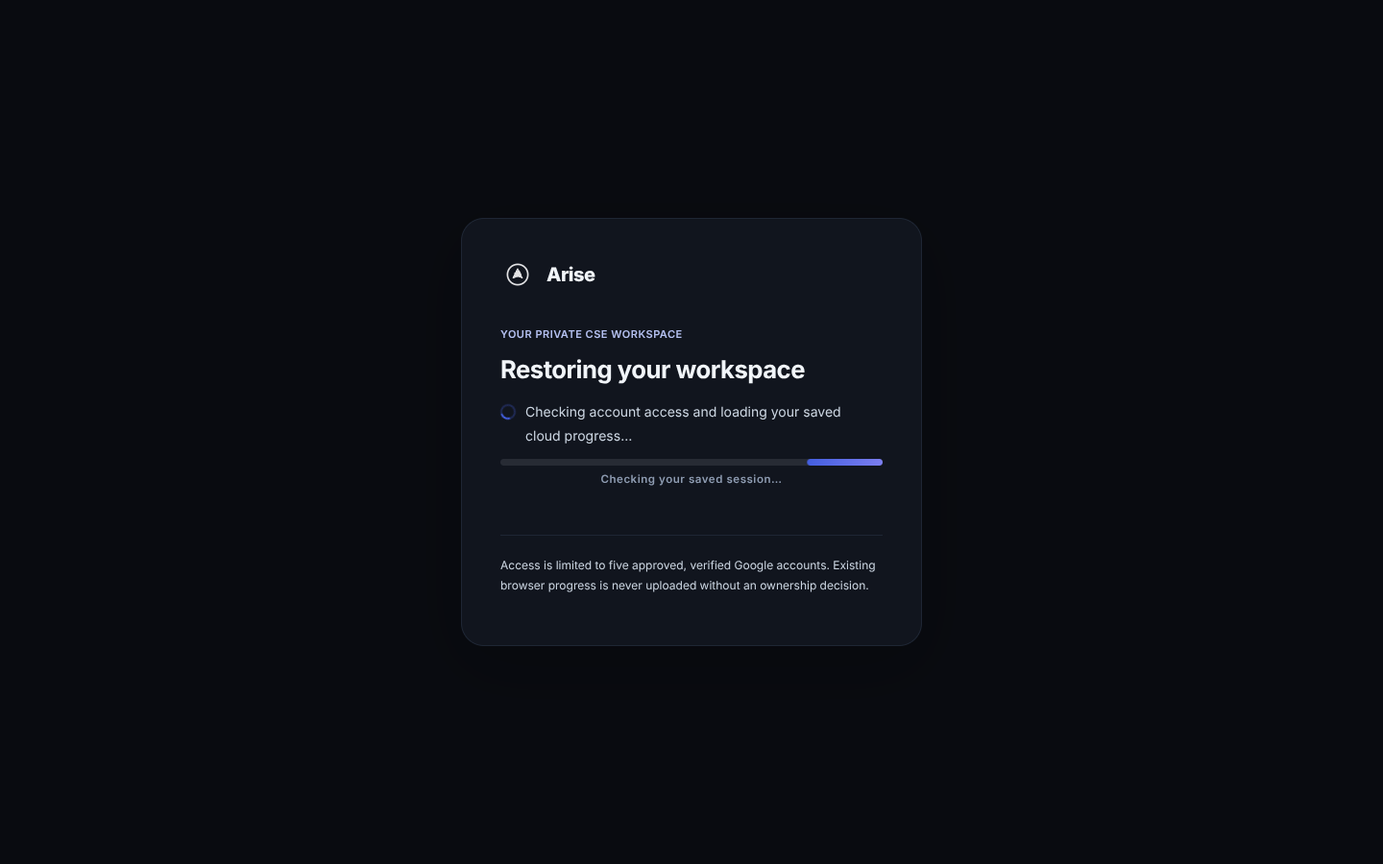
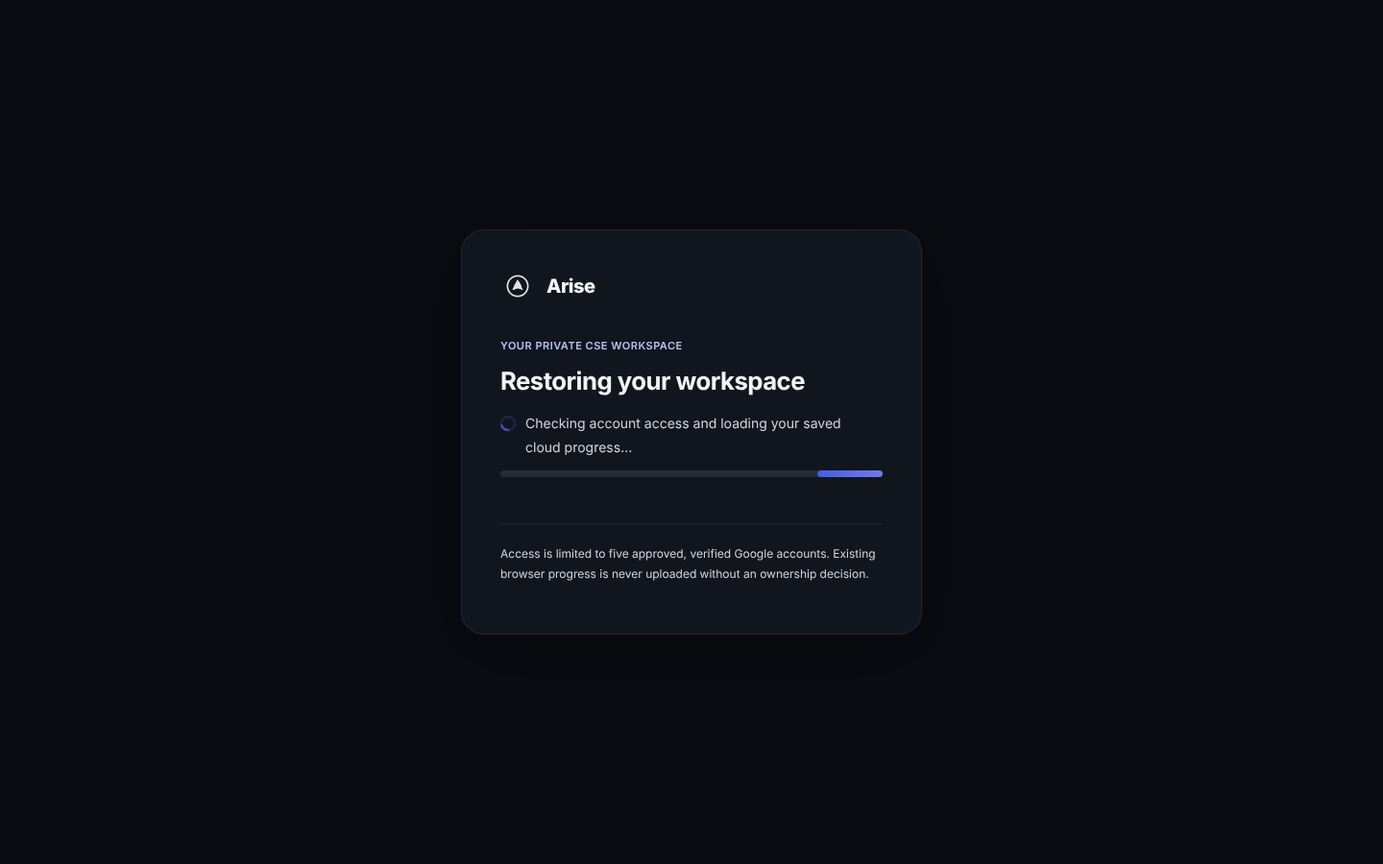
Loading polish: grouped announcements, skeleton progressbar semantics, cloud-sync progress
- Skeleton roots are role=progressbar + aria-label + aria-busy (not live regions);
  announceLoading() groups concurrent mounts into one announcement per 900ms window
- state('ready') clears a stale lone placeholder; index.html lazy mount uses mount()
- AriseLoading.cloudStatus() maps sync-engine statuses onto the shared indicator
  (real attachment fractions only, refcount-safe, clears synthetic creep timers)
- setIndeterminateBar() renders the v2 .ars-progress component with legacy fallback
- Rebuild chunks + SW shell (w01.a88c7ccc), refresh screenshots
- Docs: loading report updated (377 assertions), new Loading states section in
  ARISE-DESIGN-SYSTEM.md

Changed region(s): [[0.3438, 0.3733, 0.6562, 0.56], [0.3438, 0.6222, 0.625, 0.6844], [0.3438, 0.3111, 0.4375, 0.3422]]

diff --git a/service-worker.js b/service-worker.js
@@ -1,4 +1,4 @@
-const CACHE_NAME="arise-developer-system-v248-secure-cloud-loading-system",CORE_SHELL=["./styles/cloud-auth.css","./src/cloud/storage-schema.js","./src/cloud/storage-bridge.js","./assets/cloud-auth.js","./","./index.html","./manifest.webmanifest","./assets/app-bundle.js","./assets/fonts/inter-latin-wght-normal.woff2","./assets/app-styles.css","./styles/theme.css","./assets/responsive-patch.css","./styles/saas-upgrade.css","./src/saas-widget-enhancer.js","./styles/animation-upgrade.css","./src/animation-upgrade.js","./styles/loading-system.css","./src/loading-system.js","./styles/typography-upgrade.css","./styles/design-system.css","./src/readiness-scoring-config.js","./src/readiness-engine.js","./src/placement-engine.js","./src/xp-engine.js","./src/learning-heatmap-widget.js","./styles/features/exam-tracker/exam-tracker.css","./styles/features/exam-tracker/exam-tracker-analytics.css","./styles/features/exam-tracker/exam-tracker-dday.css","./assets/arise-logo.svg","./assets/arise-logo-32.png","./assets/arise-logo-192.webp","./assets/arise-logo-512.webp","./assets/arise-logo-192.png","./assets/arise-logo-512.png"],EXTENDED_SHELL=["./assets/chunks/w01.81ee74a1.js","./assets/chunks/w02.a89778ae.js","./assets/chunks/w03.73b2c2e0.js","./assets/chunks/w04.184d5eb3.js","./assets/chunks/w05.aba06fa4.js","./assets/chunks/w06.0b14ba51.js","./assets/chunks/w07.3def584e.js","./assets/chunks/w08.ea6aa31c.js","./assets/chunks/w09.60cffb01.js","./assets/chunks/w10.7b87fb7c.js","./assets/chunks/w11.d858d06b.js","./assets/chunks/w12.40743912.js","./assets/app-analytics.js","./assets/fonts/inter-latin-wght-normal.woff2","./assets/fonts/jetbrains-mono-latin-wght-normal.woff2","./assets/arise-logo-192.webp","./assets/arise-logo-512.webp","./src/mutation-bus.js","./src/storage-watch-bus.js","./src/storage-keys.js","./src/widget-shared-utils.js","./styles/widget-nav.css","./src/widget-nav.js","./src/mobile-nav-enhance.js","./src/theme-system.js","./styles/theme-quick-toggle.css","./src/theme-quick-toggle.js","./styles/premium-productivity-features.css","./src/premium-productivity-features.js","./src/readiness-50lpa-widget.js","./src/weekly-ai-report-widget.js","./src/xp-breakdown-widget.js","./src/attendance-tracker-widget.js","./src/cgpa-tracker-widget.js","./src/competitive-programming-widget.js","./src/problem-log-explorer-widget.js","./src/hackathon-tracker-widget.js","./src/hackathon-expense-tracker-widget.js","./src/hackathon-timeline-widget.js","./src/hackathon-pipeline-widget.js","./src/hackathon-team-directory-widget.js","./src/hackathon-prize-wall-widget.js","./src/hackathon-funnel-widget.js","./src/habit-heatmap-widget.js","./src/dev-mastery-heatmap-widget.js","./src/skills-timeline-widget.js","./src/notes-app-widget.js","./src/personal-wiki-widget.js","./src/burnout-detector-widget.js","./src/interview-sheets-widget.js","./assets/interview_sheets_data.json","./src/dsa-mastery-premium-widget.js","./src/dev-mastery-premium-widget.js","./src/dev-weekly-sparkline-widget.js","./src/dev-milestone-badges-widget.js","./src/dev-pace-projection-widget.js","./src/dev-difficulty-radar-widget.js","./src/dsa-topic-breakdown-widget.js","./src/dsa-pace-projection-widget.js","./src/dsa-streak-widget.js","./src/dsa-weekly-sparkline-widget.js","./src/dsa-mastery-trend-widget.js","./src/dsa-difficulty-radar-widget.js","./src/dsa-sheet-coverage-widget.js","./src/dsa-solve-speed-widget.js","./src/dsa-milestone-badges-widget.js","./src/dsa-revision-scheduler-widget.js","./src/dsa-problem-insights-widget.js","./src/dsa-tier3-readiness-widget.js","./src/dsa-placement-engine-widget.js","./src/dsa-daily-goal-widget.js","./src/dsa-mock-oa-widget.js","./src/dsa-pattern-playbook-widget.js","./src/dsa-proof-pack-widget.js","./src/dsa-mistake-journal-widget.js","./src/dsa-study-planner-widget.js","./src/aptitude-practice-widget.js","./src/dev-placement-engine-widget.js","./src/placement-command-center-widget.js","./src/dev-task-timestamps-widget.js","./src/dev-topic-breakdown-widget.js","./src/dev-streak-widget.js","./src/dev-roadmap-coverage-widget.js","./src/dev-solve-speed-widget.js","./src/dev-task-insights-widget.js","./src/dev-quality-trend-widget.js","./src/dev-portfolio-flags-widget.js","./src/dev-revision-scheduler-widget.js","./src/dev-mastery-trend-widget.js","./src/backup-center-widget.js","./src/local-files-widget.js","./src/projects-widget.js","./src/expenses.js","./src/battle-plan-widget.js","./src/focus-mode-widget.js","./src/focus-timer-upgrade-widget.js","./src/timer-visual-upgrade-widget.js","./src/water-reminder-widget.js","./src/mount-safety.js","./src/widget-reset.js","./src/revision-system-widget.js","./src/ai-smart-learning-path-widget.js","./src/learning-session-analytics-widget.js","./src/learning-mastery-correlation-widget.js","./src/ai-career-mentor-widget.js","./src/ai-connect-shared.js","./src/ai-real-insights-widget.js","./src/career-command-center-widget.js","./src/readiness-path-planner-widget.js","./src/social-media-widget.js","./styles/features/placement-tracker/placement-tracker.css","./src/features/placement-tracker/placement-calculations.js","./src/features/placement-tracker/placement-storage.js","./src/features/placement-tracker/placement-tracker.js","./src/features/placement-tracker/placement-tracker-new-features.js","./src/features/cse-placement-critical/cse-placement-critical-config.js","./src/features/semester-risk/cse-full-syllabus-config.js","./src/features/semester-risk/cse-syllabus-plus-widget.js","./src/features/semester-risk/cse-syllabus-plus-v144-patch.js","./src/features/semester-risk/cse-syllabus-tabs-v150-patch.js","./src/features/semester-risk/cse-syllabus-unified-widget.js","./styles/features/certificates/certificates.css","./src/features/certificates/certificates-storage.js","./src/features/certificates/certificates-widget.js","./assets/sounds/rain.mp3","./assets/sounds/moody.mp3","./assets/sounds/relaxing.mp3","./assets/sounds/calming.mp3","./assets/sounds/forest.mp3","./assets/sounds/wind.mp3","./assets/sounds/night.mp3"];
+const CACHE_NAME="arise-developer-system-v248-secure-cloud-loading-system",CORE_SHELL=["./styles/cloud-auth.css","./src/cloud/storage-schema.js","./src/cloud/storage-bridge.js","./assets/cloud-auth.js","./","./index.html","./manifest.webmanifest","./assets/app-bundle.js","./assets/fonts/inter-latin-wght-normal.woff2","./assets/app-styles.css","./styles/theme.css","./assets/responsive-patch.css","./styles/saas-upgrade.css","./src/saas-widget-enhancer.js","./styles/animation-upgrade.css","./src/animation-upgrade.js","./styles/loading-system.css","./src/loading-system.js","./styles/typography-upgrade.css","./styles/design-system.css","./src/readiness-scoring-config.js","./src/readiness-engine.js","./src/placement-engine.js","./src/xp-engine.js","./src/learning-heatmap-widget.js","./styles/features/exam-tracker/exam-tracker.css","./styles/features/exam-tracker/exam-tracker-analytics.css","./styles/features/exam-tracker/exam-tracker-dday.css","./assets/arise-logo.svg","./assets/arise-logo-32.png","./assets/arise-logo-192.webp","./assets/arise-logo-512.webp","./assets/arise-logo-192.png","./assets/arise-logo-512.png"],EXTENDED_SHELL=["./assets/chunks/w01.a88c7ccc.js","./assets/chunks/w02.a89778ae.js","./assets/chunks/w03.73b2c2e0.js","./assets/chunks/w04.184d5eb3.js","./assets/chunks/w05.aba06fa4.js","./assets/chunks/w06.0b14ba51.js","./assets/chunks/w07.3def584e.js","./assets/chunks/w08.ea6aa31c.js","./assets/chunks/w09.60cffb01.js","./assets/chunks/w10.7b87fb7c.js","./assets/chunks/w11.d858d06b.js","./assets/chunks/w12.40743912.js","./assets/app-analytics.js","./assets/fonts/inter-latin-wght-normal.woff2","./assets/fonts/jetbrains-mono-latin-wght-normal.woff2","./assets/arise-logo-192.webp","./assets/arise-logo-512.webp","./src/mutation-bus.js","./src/storage-watch-bus.js","./src/storage-keys.js","./src/widget-shared-utils.js","./styles/widget-nav.css","./src/widget-nav.js","./src/mobile-nav-enhance.js","./src/theme-system.js","./styles/theme-quick-toggle.css","./src/theme-quick-toggle.js","./styles/premium-productivity-features.css","./src/premium-productivity-features.js","./src/readiness-50lpa-widget.js","./src/weekly-ai-report-widget.js","./src/xp-breakdown-widget.js","./src/attendance-tracker-widget.js","./src/cgpa-tracker-widget.js","./src/competitive-programming-widget.js","./src/problem-log-explorer-widget.js","./src/hackathon-tracker-widget.js","./src/hackathon-expense-tracker-widget.js","./src/hackathon-timeline-widget.js","./src/hackathon-pipeline-widget.js","./src/hackathon-team-directory-widget.js","./src/hackathon-prize-wall-widget.js","./src/hackathon-funnel-widget.js","./src/habit-heatmap-widget.js","./src/dev-mastery-heatmap-widget.js","./src/skills-timeline-widget.js","./src/notes-app-widget.js","./src/personal-wiki-widget.js","./src/burnout-detector-widget.js","./src/interview-sheets-widget.js","./assets/interview_sheets_data.json","./src/dsa-mastery-premium-widget.js","./src/dev-mastery-premium-widget.js","./src/dev-weekly-sparkline-widget.js","./src/dev-milestone-badges-widget.js","./src/dev-pace-projection-widget.js","./src/dev-difficulty-radar-widget.js","./src/dsa-topic-breakdown-widget.js","./src/dsa-pace-projection-widget.js","./src/dsa-streak-widget.js","./src/dsa-weekly-sparkline-widget.js","./src/dsa-mastery-trend-widget.js","./src/dsa-difficulty-radar-widget.js","./src/dsa-sheet-coverage-widget.js","./src/dsa-solve-speed-widget.js","./src/dsa-milestone-badges-widget.js","./src/dsa-revision-scheduler-widget.js","./src/dsa-problem-insights-widget.js","./src/dsa-tier3-readiness-widget.js","./src/dsa-placement-engine-widget.js","./src/dsa-daily-goal-widget.js","./src/dsa-mock-oa-widget.js","./src/dsa-pattern-playbook-widget.js","./src/dsa-proof-pack-widget.js","./src/dsa-mistake-journal-widget.js","./src/dsa-study-planner-widget.js","./src/aptitude-practice-widget.js","./src/dev-placement-engine-widget.js","./src/placement-command-center-widget.js","./src/dev-task-timestamps-widget.js","./src/dev-topic-breakdown-widget.js","./src/dev-streak-widget.js","./src/dev-roadmap-coverage-widget.js","./src/dev-solve-speed-widget.js","./src/dev-task-insights-widget.js","./src/dev-quality-trend-widget.js","./src/dev-portfolio-flags-widget.js","./src/dev-revision-scheduler-widget.js","./src/dev-mastery-trend-widget.js","./src/backup-center-widget.js","./src/local-files-widget.js","./src/projects-widget.js","./src/expenses.js","./src/battle-plan-widget.js","./src/focus-mode-widget.js","./src/focus-timer-upgrade-widget.js","./src/timer-visual-upgrade-widget.js","./src/water-reminder-widget.js","./src/mount-safety.js","./src/widget-reset.js","./src/revision-system-widget.js","./src/ai-smart-learning-path-widget.js","./src/learning-session-analytics-widget.js","./src/learning-mastery-correlation-widget.js","./src/ai-career-mentor-widget.js","./src/ai-connect-shared.js","./src/ai-real-insights-widget.js","./src/career-command-center-widget.js","./src/readiness-path-planner-widget.js","./src/social-media-widget.js","./styles/features/placement-tracker/placement-tracker.css","./src/features/placement-tracker/placement-calculations.js","./src/features/placement-tracker/placement-storage.js","./src/features/placement-tracker/placement-tracker.js","./src/features/placement-tracker/placement-tracker-new-features.js","./src/features/cse-placement-critical/cse-placement-critical-config.js","./src/features/semester-risk/cse-full-syllabus-config.js","./src/features/semester-risk/cse-syllabus-plus-widget.js","./src/features/semester-risk/cse-syllabus-plus-v144-patch.js","./src/features/semester-risk/cse-syllabus-tabs-v150-patch.js","./src/features/semester-risk/cse-syllabus-unified-widget.js","./styles/features/certificates/certificates.css","./src/features/certificates/certificates-storage.js","./src/features/certificates/certificates-widget.js","./assets/sounds/rain.mp3","./assets/sounds/moody.mp3","./assets/sounds/relaxing.mp3","./assets/sounds/calming.mp3","./assets/sounds/forest.mp3","./assets/sounds/wind.mp3","./assets/sounds/night.mp3"];
 // scripts/build.mjs appends a deterministic public-content digest to CACHE_NAME.
 // Keep the existing core, ordered widget sources, sounds and CP sync contracts.
 const CACHE_PREFIX = 'arise-developer-system-';

diff --git a/index.html b/index.html
@@ -132,10 +132,12 @@
           var kind = MOUNT_SHAPES[name] || (isFullSection ? 'dashboard' : 'widget');
           el.setAttribute('aria-busy', 'true');
           if (loading && typeof loading.skeleton === 'function') {
-            el.innerHTML = loading.skeleton(kind, {
+            var mountOpts = {
               label: 'Loading ' + label + '…',
               height: isFullSection ? '280px' : null
-            });
+            };
+            if (typeof loading.mount === 'function') loading.mount(el, kind, mountOpts);
+            else el.innerHTML = loading.skeleton(kind, mountOpts);
             el.firstElementChild.setAttribute('data-arise-skeleton', '1');
           } else if (system && typeof system.renderSkeleton === 'function') {
             var legacy = { dashboard: 'dashboard', table: 'table', list: 'list', form: 'form', widget: 'widget' };
@@ -1025,7 +1027,7 @@ window.AriseBoot.ready.then(function () {
     ];
     /*CHUNKS:START*/
     var CHUNKS = [
-      "./assets/chunks/w01.81ee74a1.js",
+      "./assets/chunks/w01.a88c7ccc.js",
       "./assets/chunks/w02.a89778ae.js",
       "./assets/chunks/w03.73b2c2e0.js",
       "./assets/chunks/w04.184d5eb3.js",
@@ -1038,7 +1040,7 @@ window.AriseBoot.ready.then(function () {
       "./assets/chunks/w11.d858d06b.js",
       "./assets/chunks/w12.40743912.js"
     ];
-    var CHUNK_FILES = {"./assets/chunks/w01.81ee74a1.js":["./src/mutation-bus.js","./src/storage-watch-bus.js","./src/storage-keys.js","./src/widget-shared-utils.js","./src/widget-nav.js","./src/mobile-nav-enhance.js","./src/dev-task-timestamps-widget.js","./src/theme-system.js","./src/theme-quick-toggle.js","./src/premium-productivity-features.js","./src/saas-widget-enhancer.js","./src/habit-heatmap-widget.js","./src/burnout-detector-widget.js","./src/xp-breakdown-widget.js","./src/features/exam-tracker/exam-tracker-calculations.js","./src/features/exam-tracker/exam-tracker-intelligence.js","./src/features/exam-tracker/exam-tracker-storage.js","./src/features/exam-tracker/exam-tracker-dday.js"],"./assets/chunks/w02.a89778ae.js":["./src/features/exam-tracker/exam-tracker.js","./src/features/exam-tracker/exam-tracker-analytics-widget.js","./src/readiness-50lpa-widget.js","./src/career-command-center-widget.js","./src/readiness-path-planner-widget.js","./src/battle-plan-widget.js","./src/ai-smart-learning-path-widget.js","./src/revision-system-widget.js","./src/water-reminder-widget.js","./src/focus-mode-widget.js","./src/focus-timer-upgrade-widget.js","./src/timer-visual-upgrade-widget.js","./src/learning-session-analytics-widget.js","./src/learning-mastery-correlation-widget.js"],"./assets/chunks/w03.73b2c2e0.js":["./src/weekly-ai-report-widget.js","./src/ai-career-mentor-widget.js","./src/ai-connect-shared.js","./src/ai-real-insights-widget.js","./src/mount-safety.js","./src/widget-reset.js","./src/a11y-toast-patch.js","./src/a11y-color-patch.js","./src/a11y-label-patch.js","./src/widget-failure-reporter.js","./src/attendance-tracker-widget.js"],"./assets/chunks/w04.184d5eb3.js":["./src/competitive-programming-widget.js","./src/social-media-widget.js","./src/problem-log-explorer-widget.js"],"./assets/chunks/w05.aba06fa4.js":["./src/hackathon-tracker-widget.js","./src/hackathon-expense-tracker-widget.js","./src/hackathon-timeline-widget.js","./src/hackathon-pipeline-widget.js","./src/hackathon-team-directory-widget.js","./src/hackathon-prize-wall-widget.js","./src/hackathon-funnel-widget.js","./src/dev-mastery-heatmap-widget.js","./src/dev-weekly-sparkline-widget.js","./src/dev-milestone-badges-widget.js","./src/dev-pace-projection-widget.js","./src/dev-difficulty-radar-widget.js"],"./assets/chunks/w06.0b14ba51.js":["./src/skills-timeline-widget.js","./src/notes-app-widget.js","./src/personal-wiki-widget.js","./src/interview-sheets-widget.js","./src/dsa-mastery-premium-widget.js"],"./assets/chunks/w07.3def584e.js":["./src/dev-mastery-premium-widget.js","./src/dev-mastery-trend-widget.js","./src/dev-topic-breakdown-widget.js","./src/dev-streak-widget.js","./src/dev-roadmap-coverage-widget.js","./src/dev-solve-speed-widget.js","./src/dsa-topic-breakdown-widget.js","./src/dsa-pace-projection-widget.js","./src/dsa-streak-widget.js","./src/dsa-weekly-sparkline-widget.js","./src/dsa-mastery-trend-widget.js","./src/dsa-difficulty-radar-widget.js","./src/dsa-sheet-coverage-widget.js","./src/dsa-solve-speed-widget.js","./src/dsa-milestone-badges-widget.js","./src/dsa-revision-scheduler-widget.js","./src/dsa-problem-insights-widget.js","./src/dsa-tier3-readiness-widget.js","./src/dsa-placement-engine-widget.js","./src/dsa-daily-goal-widget.js","./src/dsa-mock-oa-widget.js","./src/dsa-pattern-playbook-widget.js","./src/dsa-proof-pack-widget.js","./src/dsa-mistake-journal-widget.js"],"./assets/chunks/w08.ea6aa31c.js":["./src/dsa-study-planner-widget.js","./src/aptitude-practice-widget.js","./src/dev-placement-engine-widget.js","./src/placement-command-center-widget.js","./src/dev-task-insights-widget.js","./src/dev-quality-trend-widget.js","./src/dev-portfolio-flags-widget.js","./src/dev-revision-scheduler-widget.js","./src/backup-center-widget.js","./src/features/placement-tracker/placement-calculations.js","./src/features/placement-tracker/placement-storage.js","./src/features/placement-tracker/placement-tracker.js","./src/features/placement-tracker/placement-tracker-new-features.js","./src/features/cse-placement-critical/cse-placement-critical-config.js","./src/features/semester-risk/cse-full-syllabus-config.js"],"./assets/chunks/w09.60cffb01.js":["./src/features/semester-risk/cse-syllabus-plus-widget.js","./src/features/semester-risk/cse-syllabus-plus-v144-patch.js","./src/features/semester-risk/cse-syllabus-tabs-v150-patch.js","./src/features/semester-risk/cse-syllabus-unified-widget.js"],"./assets/chunks/w10.7b87fb7c.js":["./src/local-files-widget.js","./src/projects-widget.js"],"./assets/chunks/w11.d858d06b.js":["./src/expenses.js"],"./assets/chunks/w12.40743912.js":["./src/cgpa-tracker-widget.js","./src/features/certificates/certificates-storage.js","./src/features/certificates/certificates-widget.js","./src/career-intelligence-dashboard.js"]};
+    var CHUNK_FILES = {"./assets/chunks/w01.a88c7ccc.js":["./src/mutation-bus.js","./src/storage-watch-bus.js","./src/storage-keys.js","./src/widget-shared-utils.js","./src/widget-nav.js","./src/mobile-nav-enhance.js","./src/dev-task-timestamps-widget.js","./src/theme-system.js","./src/theme-quick-toggle.js","./src/premium-productivity-features.js","./src/saas-widget-enhancer.js","./src/habit-heatmap-widget.js","./src/burnout-detector-widget.js","./src/xp-breakdown-widget.js","./src/features/exam-tracker/exam-tracker-calculations.js","./src/features/exam-tracker/exam-tracker-intelligence.js","./src/features/exam-tracker/exam-tracker-storage.js","./src/features/exam-tracker/exam-tracker-dday.js"],"./assets/chunks/w02.a89778ae.js":["./src/features/exam-tracker/exam-tracker.js","./src/features/exam-tracker/exam-tracker-analytics-widget.js","./src/readiness-50lpa-widget.js","./src/career-command-center-widget.js","./src/readiness-path-planner-widget.js","./src/battle-plan-widget.js","./src/ai-smart-learning-path-widget.js","./src/revision-system-widget.js","./src/water-reminder-widget.js","./src/focus-mode-widget.js","./src/focus-timer-upgrade-widget.js","./src/timer-visual-upgrade-widget.js","./src/learning-session-analytics-widget.js","./src/learning-mastery-correlation-widget.js"],"./assets/chunks/w03.73b2c2e0.js":["./src/weekly-ai-report-widget.js","./src/ai-career-mentor-widget.js","./src/ai-connect-shared.js","./src/ai-real-insights-widget.js","./src/mount-safety.js","./src/widget-reset.js","./src/a11y-toast-patch.js","./src/a11y-color-patch.js","./src/a11y-label-patch.js","./src/widget-failure-reporter.js","./src/attendance-tracker-widget.js"],"./assets/chunks/w04.184d5eb3.js":["./src/competitive-programming-widget.js","./src/social-media-widget.js","./src/problem-log-explorer-widget.js"],"./assets/chunks/w05.aba06fa4.js":["./src/hackathon-tracker-widget.js","./src/hackathon-expense-tracker-widget.js","./src/hackathon-timeline-widget.js","./src/hackathon-pipeline-widget.js","./src/hackathon-team-directory-widget.js","./src/hackathon-prize-wall-widget.js","./src/hackathon-funnel-widget.js","./src/dev-mastery-heatmap-widget.js","./src/dev-weekly-sparkline-widget.js","./src/dev-milestone-badges-widget.js","./src/dev-pace-projection-widget.js","./src/dev-difficulty-radar-widget.js"],"./assets/chunks/w06.0b14ba51.js":["./src/skills-timeline-widget.js","./src/notes-app-widget.js","./src/personal-wiki-widget.js","./src/interview-sheets-widget.js","./src/dsa-mastery-premium-widget.js"],"./assets/chunks/w07.3def584e.js":["./src/dev-mastery-premium-widget.js","./src/dev-mastery-trend-widget.js","./src/dev-topic-breakdown-widget.js","./src/dev-streak-widget.js","./src/dev-roadmap-coverage-widget.js","./src/dev-solve-speed-widget.js","./src/dsa-topic-breakdown-widget.js","./src/dsa-pace-projection-widget.js","./src/dsa-streak-widget.js","./src/dsa-weekly-sparkline-widget.js","./src/dsa-mastery-trend-widget.js","./src/dsa-difficulty-radar-widget.js","./src/dsa-sheet-coverage-widget.js","./src/dsa-solve-speed-widget.js","./src/dsa-milestone-badges-widget.js","./src/dsa-revision-scheduler-widget.js","./src/dsa-problem-insights-widget.js","./src/dsa-tier3-readiness-widget.js","./src/dsa-placement-engine-widget.js","./src/dsa-daily-goal-widget.js","./src/dsa-mock-oa-widget.js","./src/dsa-pattern-playbook-widget.js","./src/dsa-proof-pack-widget.js","./src/dsa-mistake-journal-widget.js"],"./assets/chunks/w08.ea6aa31c.js":["./src/dsa-study-planner-widget.js","./src/aptitude-practice-widget.js","./src/dev-placement-engine-widget.js","./src/placement-command-center-widget.js","./src/dev-task-insights-widget.js","./src/dev-quality-trend-widget.js","./src/dev-portfolio-flags-widget.js","./src/dev-revision-scheduler-widget.js","./src/backup-center-widget.js","./src/features/placement-tracker/placement-calculations.js","./src/features/placement-tracker/placement-storage.js","./src/features/placement-tracker/placement-tracker.js","./src/features/placement-tracker/placement-tracker-new-features.js","./src/features/cse-placement-critical/cse-placement-critical-config.js","./src/features/semester-risk/cse-full-syllabus-config.js"],"./assets/chunks/w09.60cffb01.js":["./src/features/semester-risk/cse-syllabus-plus-widget.js","./src/features/semester-risk/cse-syllabus-plus-v144-patch.js","./src/features/semester-risk/cse-syllabus-tabs-v150-patch.js","./src/features/semester-risk/cse-syllabus-unified-widget.js"],"./assets/chunks/w10.7b87fb7c.js":["./src/local-files-widget.js","./src/projects-widget.js"],"./assets/chunks/w11.d858d06b.js":["./src/expenses.js"],"./assets/chunks/w12.40743912.js":["./src/cgpa-tracker-widget.js","./src/features/certificates/certificates-storage.js","./src/features/certificates/certificates-widget.js","./src/career-intelligence-dashboard.js"]};
     /*CHUNKS:END*/
 
     function loadCss() {

diff --git a/src/loading-system.js b/src/loading-system.js
@@ -641,8 +641,11 @@
     if (o.className) classes.push(String(o.className));
     var style = o.height ? ' style="min-height:' + escapeHtml(o.height) + '"' : "";
     var body = (o.header === false ? "" : "") + bodyFor(name, o);
+    // One indeterminate progressbar (not a live region): a dashboard can mount
+    // six placeholders at once, and six polite regions would announce six times.
+    // Loading is announced once through announceLoading() instead.
     return (
-      '<div class="' + classes.join(" ") + '" role="status" aria-live="polite" aria-busy="true" data-ars-skeleton="1"' + style + ">" +
+      '<div class="' + classes.join(" ") + '" role="progressbar" aria-label="' + escapeHtml(label) + '" aria-busy="true" data-ars-skeleton="1"' + style + ">" +
       '<span class="ars-sr">' + escapeHtml(label) + "</span>" +
       '<div class="ars-sk-body" aria-hidden="true">' + body + "</div>" +
       "</div>"
@@ -694,11 +697,24 @@
   }
 
   /* ------------------------------------------------------------------ mount */
+  var lastLoadingAnnounceAt = -Infinity;
+
+  /** At most one "loading" announcement per 900ms window, even when several
+   * widgets mount together. Each host still carries aria-busy for AT. */
+  function announceLoading(label) {
+    var stamp = now();
+    if (stamp - lastLoadingAnnounceAt < 900) return;
+    lastLoadingAnnounceAt = stamp;
+    announce(label);
+  }
+
   function mount(target, kind, opts) {
     var el = resolveTarget(target);
     if (!el) return null;
+    var o = opts || {};
     el.setAttribute("aria-busy", "true");
-    el.innerHTML = skeleton(kind, opts);
+    el.innerHTML = skeleton(kind, o);
+    announceLoading(o.label || "Loading content…");
     return el.firstElementChild;
   }
 
@@ -756,7 +772,12 @@
     if (name === "loading") return mount(el, o.kind || "widget", o);
     el.removeAttribute("data-ars-skeleton");
     el.removeAttribute("aria-busy");
-    if (name === "ready") return el;
+    if (name === "ready") {
+      if (el.firstElementChild && el.firstElementChild.getAttribute("data-ars-skeleton") === "1" && el.children.length === 1) {
+        el.innerHTML = "";
+      }
+      return el;
+    }
     if (name === "empty") el.innerHTML = emptyState(o);
     else if (name === "error") {
       el.innerHTML = errorState(o);
@@ -832,11 +853,13 @@
     } else if (!hadContent) {
       target.innerHTML = skeleton(kind, { label: label, rows: s.rows, stats: s.stats, type: s.type, height: s.height, subtle: s.subtle });
       skeletonShownAt = now();
+      announceLoading(label);
     } else {
       skeletonTimer = setTimeout(function () {
         if (!live()) return;
         target.innerHTML = skeleton(kind, { label: label, rows: s.rows, stats: s.stats, type: s.type, height: s.height, subtle: s.subtle });
         skeletonShownAt = now();
+        announceLoading(label);
       }, startDelay);
     }
 
@@ -1101,6 +1124,12 @@
       progressState.determinate = true;
       var el = ensureTopbar();
       if (!el) return progress;
+      // A real fraction supersedes the synthetic creep; otherwise a timer would
+      // overwrite the measured value on the next tick.
+      progressState.timers.forEach(function (t) {
+        clearTimeout(t);
+      });
+      progressState.timers = [];
       el.removeAttribute("data-mode");
       el.setAttribute("data-state", "active");
       setBar(Math.max(0.02, Math.min(0.98, v)));
@@ -1189,6 +1218,37 @@
     window.addEventListener("popstate", function () {
       progress.pulse();
     });
+  }
+
+  /* ------------------------------------------------------- cloud sync state -- */
+  /**
+   * Maps the sync engine's real status stream (onStatus) to the shared
+   * indicator. Attachment uploads report a true percentage, so that step uses
+   * determinate progress; queued store writes have no measurable fraction and
+   * stay indeterminate. Waiting for a user decision is not progress, so
+   * `conflict`/`offline` terminate the indicator instead of leaving it running.
+   */
+  var cloudProgressActive = false;
+
+  function cloudStatus(info) {
+    if (!info || typeof info !== "object") return "idle";
+    var status = String(info.status || "");
+    var busy = status === "saving" || status === "retrying";
+    if (busy) {
+      if (!cloudProgressActive) {
+        cloudProgressActive = true;
+        progress.start();
+      }
+      var pct = Number(info.attachmentProgress);
+      if (isFinite(pct)) progress.set(pct / 100);
+      return "busy";
+    }
+    if (cloudProgressActive) {
+      cloudProgressActive = false;
+      if (status === "failed" || status === "conflict") progress.fail();
+      else progress.done();
+    }
+    return status || "idle";
   }
 
   /* ------------------------------------------------------------ live region */
@@ -1436,6 +1496,7 @@
     offlineState: offlineState,
     run: run,
     progress: progress,
+    cloudStatus: cloudStatus,
     button: button,
     showButtonLoading: showButtonLoading,
     hideButtonLoading: hideButtonLoading,

diff --git a/assets/chunks/w01.a88c7ccc.js b/assets/chunks/w01.a88c7ccc.js
@@ -665,19 +665,39 @@ try{
     }
   }
 
+  /**
+   * Inline indeterminate bar for widget-level operations (Competitive
+   * Programming "sync all platforms" is the current consumer). When the shared
+   * loading system is present it renders the v2 progress component — same
+   * lifecycle, same insertion rules, but an accessible progressbar instead of a
+   * bare strip. It never sets aria-busy on the host: widgets that re-render over
+   * themselves would otherwise be left permanently busy.
+   */
   function setIndeterminateBar(host, isActive, opts) {
     if (!host) return;
     opts = opts || {};
-    var cls = "uxa-progress-track";
-    var cur = host.querySelector("." + cls);
+    var loading = window.AriseLoading;
+    var useV2 = !!(loading && typeof loading.createInlineLoader === "function");
+    var cur = host.querySelector("[data-uxa-indeterminate-bar]");
     if (isActive) {
       if (cur) return;
       var bar = document.createElement("div");
-      bar.className = cls;
-      bar.setAttribute("role", "status");
-      bar.setAttribute("aria-live", "polite");
-      bar.setAttribute("aria-label", opts.label || "Working");
-      bar.innerHTML = '<span class="uxa-sr-only">' + escapeText(opts.label || "Working") + '</span><div class="uxa-progress-fill-indeterminate" aria-hidden="true"></div>';
+      bar.setAttribute("data-uxa-indeterminate-bar", "1");
+      if (useV2) {
+        bar.className = "ars-progress";
+        bar.setAttribute("data-mode", "indeterminate");
+        bar.setAttribute("role", "progressbar");
+        bar.setAttribute("aria-label", opts.label || "Working");
+        bar.innerHTML =
+          '<div class="ars-progress-track"><div class="ars-progress-fill"></div></div>';
+      } else {
+        bar.className = "uxa-progress-track";
+        bar.setAttribute("role", "status");
+        bar.setAttribute("aria-live", "polite");
+        bar.setAttribute("aria-label", opts.label || "Working");
+        bar.innerHTML =
+          '<span class="uxa-sr-only">' + escapeText(opts.label || "Working") + '</span><div class="uxa-progress-fill-indeterminate" aria-hidden="true"></div>';
+      }
       if (opts.after && opts.after.parentNode === host) {
         opts.after.insertAdjacentElement("afterend", bar);
       } else {

diff --git a/src/widget-shared-utils.js b/src/widget-shared-utils.js
@@ -476,19 +476,39 @@
     }
   }
 
+  /**
+   * Inline indeterminate bar for widget-level operations (Competitive
+   * Programming "sync all platforms" is the current consumer). When the shared
+   * loading system is present it renders the v2 progress component — same
+   * lifecycle, same insertion rules, but an accessible progressbar instead of a
+   * bare strip. It never sets aria-busy on the host: widgets that re-render over
+   * themselves would otherwise be left permanently busy.
+   */
   function setIndeterminateBar(host, isActive, opts) {
     if (!host) return;
     opts = opts || {};
-    var cls = "uxa-progress-track";
-    var cur = host.querySelector("." + cls);
+    var loading = window.AriseLoading;
+    var useV2 = !!(loading && typeof loading.createInlineLoader === "function");
+    var cur = host.querySelector("[data-uxa-indeterminate-bar]");
     if (isActive) {
       if (cur) return;
       var bar = document.createElement("div");
-      bar.className = cls;
-      bar.setAttribute("role", "status");
-      bar.setAttribute("aria-live", "polite");
-      bar.setAttribute("aria-label", opts.label || "Working");
-      bar.innerHTML = '<span class="uxa-sr-only">' + escapeText(opts.label || "Working") + '</span><div class="uxa-progress-fill-indeterminate" aria-hidden="true"></div>';
+      bar.setAttribute("data-uxa-indeterminate-bar", "1");
+      if (useV2) {
+        bar.className = "ars-progress";
+        bar.setAttribute("data-mode", "indeterminate");
+        bar.setAttribute("role", "progressbar");
+        bar.setAttribute("aria-label", opts.label || "Working");
+        bar.innerHTML =
+          '<div class="ars-progress-track"><div class="ars-progress-fill"></div></div>';
+      } else {
+        bar.className = "uxa-progress-track";
+        bar.setAttribute("role", "status");
+        bar.setAttribute("aria-live", "polite");
+        bar.setAttribute("aria-label", opts.label || "Working");
+        bar.innerHTML =
+          '<span class="uxa-sr-only">' + escapeText(opts.label || "Working") + '</span><div class="uxa-progress-fill-indeterminate" aria-hidden="true"></div>';
+      }
       if (opts.after && opts.after.parentNode === host) {
         opts.after.insertAdjacentElement("afterend", bar);
       } else {

diff --git a/src/cloud/auth-controller.js b/src/cloud/auth-controller.js
@@ -45,6 +45,13 @@ export function createController(adapter, { storage = window.AriseStorage, schem
   };
   const publish = () => window.dispatchEvent(new Event('arise:auth-state'));
   const status = info => {
+    // Shared global indicator: determinate for attachment uploads, indeterminate
+    // for queued writes, terminated on saved/failed/conflict/offline.
+    try {
+      if (window.AriseLoading && typeof window.AriseLoading.cloudStatus === 'function') {
+        window.AriseLoading.cloudStatus(info);
+      }
+    } catch (_) {}
     const account = element('cloud-account'); account.dataset.status = info.status;
     element('cloud-sync-label').textContent = labels[info.status] || info.status;
     element('cloud-sync-detail').textContent = info.message || (info.status === 'saved' ? 'Confirmed by the cloud database. Pending offline changes are never labelled saved.' :

diff --git a/docs/LOADING-SYSTEM-2026-11-07.md b/docs/LOADING-SYSTEM-2026-11-07.md
@@ -37,7 +37,7 @@ rather than replacing it:
   connectivity state;
 * targeted integration into the lazy mount queue, route navigation, the backup
   centre, AI insights, interview-sheet filtering and the secure boot screen;
-* a new regression suite (294 assertions) and three new browser-level probe
+* a new regression suite (377 assertions) and three new browser-level probe
   groups, plus screenshots of the real states.
 
 No existing feature, storage key, widget mount contract, chunk or service-worker
@@ -117,9 +117,16 @@ exported across accounts).
 `chart-radar`, `chart-heatmap`, `chart-progress`, `calendar`, `timeline`, `form`,
 `settings`, `search`, `notes`, `dsa`, `ai`, `modal`.
 
-Each root is a single `role="status"` with one visually hidden label; its
-geometry is `aria-hidden`, so a screen reader hears "Loading <area>…" once, not
-30 rectangles.
+Each root is a single `role="progressbar"` with an accessible name
+(`aria-label="Loading <area>…"`) and `aria-busy="true"`; its geometry is
+`aria-hidden`, so nothing announces 30 rectangles. `progressbar` is deliberately
+used instead of `role="status"`: status/alert roles are *live regions*, and a
+page that mounts a dozen placeholders at once would otherwise create a dozen
+competing announcements. Instead the runtime groups announcements through
+`announceLoading()`, which announces the first pending area immediately and
+coalesces the rest inside a 900 ms window, so simultaneous mounts produce one
+"Loading dashboard…" utterance rather than a queue of them, followed by the
+single completion announcement from `announce()`.
 
 ---
 
@@ -171,7 +178,7 @@ indicator, which is where time is actually spent.
 | --- | --- |
 | `styles/loading-system.css` | loading design layer (986 lines before this doc) |
 | `src/loading-system.js` | loading runtime / `window.AriseLoading` |
-| `tests/test-loading-system-v2.cjs` | 294-assertion jsdom regression suite |
+| `tests/test-loading-system-v2.cjs` | 377-assertion jsdom regression suite |
 | `scripts/capture-loading-states.cjs` | reproducible screenshot capture for docs |
 | `docs/screenshots/loading/01…07.png` | captured states (boot, skeleton kit dark/light, mobile, AI thinking, nav progress, offline) |
 | `docs/LOADING-SYSTEM-2026-11-07.md` | this document |
@@ -212,12 +219,18 @@ indicator, which is where time is actually spent.
 
 ## 9. Accessibility
 
-* One `role="status"` per placeholder with a single hidden label; geometry is
-  `aria-hidden` so nothing announces 30 rectangles.
+* Placeholders expose `role="progressbar"` + `aria-label` + `aria-busy="true"`
+  and keep their geometry `aria-hidden`; they are **not** live regions, so 30
+  rectangles never become 30 announcements.
+* Announcements are grouped by `announceLoading()` (900 ms window): the first
+  mount announces immediately, concurrent mounts are coalesced, and the
+  per-region `announce()` keeps its own 700 ms de-duplication. Completion and
+  failure are announced once per region (`state("ready")` also clears a
+  placeholder left behind by a navigation race).
 * `aria-busy` is set while a host is loading and always cleared — including on
   failure, stale results and retries (covered by tests).
-* Two shared live regions (polite + assertive), de-duplicated within 700 ms;
-  errors use `role="alert"` and assertive announcements.
+* Two shared live regions (polite + assertive); errors use `role="alert"` and
+  assertive announcements.
 * Retry controls are native buttons; keyboard focus is untouched, and the
   existing modal focus trap continues to run.
 * Reduced motion: no shimmer, no sliding bar, calm pulse for spinners; tested in
@@ -234,7 +247,7 @@ indicator, which is where time is actually spent.
 | Command | Result |
 | --- | --- |
 | `npm test` (build chunks → 69 test files → cloud suite) | **exit 0**; 0 failing files; cloud `node:test` 69/69 pass |
-| `node tests/test-loading-system-v2.cjs` | **294/294 assertions pass** |
+| `node tests/test-loading-system-v2.cjs` | **377/377 assertions pass** (30 skeleton kinds, lifecycle, cloud-sync mapping, CP shared helper, announcement grouping) |
 | `npm run test:browser:ux` (real Chromium, mocked secure cloud) | **all checks pass** — 8 numbered passes + skeleton geometry (320/390/768/1440/1920 px × dark + light) |
 | `npm run test:browser` (secure cloud, storage, sync, ZIP, offline queue, logout) | **all 10 PASS lines** |
 | `npm run test:browser:engineering` (12 chunks, 20 routes × 8 viewports, PWA, failure/retry) | **all 8 PASS lines** |
@@ -248,6 +261,13 @@ name in full-performance mode and static in perf-lite, image pending→loaded an
 pending→error, guarded button disabled + spinner + single call + restore,
 offline banner appear/clear with content still visible, and v2 reduced-motion
 behaviour (`animation: none` for shimmer, `ars-reduced-pulse` for spinners).
+
+The unit suite additionally pins the sync contract (idle → saving → real 40%
+attachment fraction → done; failure; repeated events do not double-start the
+bar; a real value clears the synthetic creep timer), the shared
+`setIndeterminateBar()` helper (one idempotent `.ars-progress` element, removed
+on `false`, host `aria-busy` never touched, legacy fallback when `AriseLoading`
+is absent), and the grouped-announcement behaviour described in §9.
 
 ### Screenshots
 
@@ -269,10 +289,13 @@ behaviour (`animation: none` for shimmer, `ars-reduced-pulse` for spinners).
   local storage in one tick; adding fake waits would be dishonest and slower.
   Their loading coverage is the deferred-mount placeholder and the shared
   indicator.
-* **No real numeric progress source exists today.** `progress.set()` is wired and
-  tested, but no current operation reports a truthful fraction (ZIP/JSON export,
-  import and cloud sync expose none), so every in-app operation uses an
-  indeterminate indicator rather than an invented percentage.
+* **Numeric progress is sparse and honest.** `AriseLoading.cloudStatus()` maps
+  the sync engine's real statuses onto the shared indicator (saving/retrying →
+  indeterminate, attachment upload → `progress.set(pct/100)` because the engine
+  reports a true fraction, saved → done, failed/conflict → fail, offline →
+  quiet end; a refcount guard prevents repeated events from leaking starts, and
+  real values clear the synthetic creep timer). ZIP/JSON export and import still
+  expose no fraction, so they stay indeterminate — no invented percentages.
 * **Most widget files are minified single-line bundles.** Integration was done
   where source is readable (backup, AI insights, interview sheets, sheet
   coverage, widget nav) and generically through the mount queue, live regions

diff --git a/docs/ARISE-DESIGN-SYSTEM.md b/docs/ARISE-DESIGN-SYSTEM.md
@@ -149,3 +149,16 @@ The following eight original themes configured white text on a primary color bel
 - CSS is added as an ordinary shared stylesheet and included in the PWA shell cache; its service-worker cache revision is incremented.
 - Automated checks in `tests/test-design-system.cjs` cover token presence, all 41 theme palettes, 656 text/status contrast pairs, primary/hover control contrast, source loading, PWA caching, mobile pass and reduced-motion support.
 - Representative desktop and mobile screenshots were generated and reviewed in Chromium; the shared page layouts were exercised at eight viewport widths, and all 41 themes were runtime-switched. A screenshot-by-screenshot visual tour of every theme/widget and physical-device testing were not performed. No claim of full WCAG conformance or per-widget visual certification is made; contrast was verified for the listed combinations.
+
+## 5. Loading states
+
+The loading layer is part of this design system rather than an independent skin. `styles/loading-system.css` (the `.ars-*` layer) resolves its colours from the semantic tokens above — `--surface-*`, `--border-*`, `--text-*`, `--primary`/`--secondary`, `--danger` — including `color-mix()` against the live surface and text colour, so it follows all 41 themes (and imported user themes) without overriding a single theme value; plain literal fallbacks (`currentColor`, `#ef4444`) only apply where a token is absent. It is an ordinary stylesheet in the PWA shell cache; no new dependency, no framework and no extra render path.
+
+- **Shapes.** 30 content kinds (`widget`, `dashboard`, `cards`, `table`, `list`, `profile`, `chart-line/area/bar/pie/radar/heatmap/progress`, `dsa`, `ai`, `notes`, `settings`, `search`, `form`, `timeline`, `calendar`, `modal`, …) built from the same radius, spacing and border tokens as the real components (`--ars-skel-radius-*` defaults 4/6/10/14/999px, `--ars-skel-gap` 0.75rem), so a placeholder occupies the geometry of what replaces it and layout shift stays near zero (boot CLS measured 0.0019–0.0497 across runs, threshold 0.1).
+- **Motion.** Shimmer is one `background-position` keyframe on a gradient derived from the skeleton base/highlight tokens (themselves `color-mix()` of text and surface), running at `--motion-skeleton` (1500ms; 1800ms for card groups, 2100ms for subtle groups) — it animates an already-composited gradient, so it never touches layout. `html.perf-lite` freezes it to a static tonal block; `prefers-reduced-motion`/`html.reduce-motion` swaps it for a calm opacity pulse and converts spinners and indeterminate bars to the same treatment. Nothing loops when nothing is loading.
+- **Spinners.** Four sizes — `xs` 0.75rem (inline in text), `sm` 0.9rem (buttons), `md` 1.15rem (card/section), `lg` 1.65rem (full region) — each a border ring mixing `currentColor` at 22% for the track against `currentColor` for the arc, so it inherits the surrounding text colour and therefore the theme's contrast, rotating at `--motion-spinner` (720ms, linear).
+- **Bars.** `.ars-topbar` is a 2.5px fixed line at the top of the viewport; `.ars-progress-track` is the inline variant at 0.4rem. Both fill with a `--primary` → `--secondary` gradient, determinate mode driving `transform: scaleX()` (320ms ease-out quart), indeterminate mode sliding a 38–40% segment. The boot bar is the same component inside `#cloud-gate` and carries only an accessible name, never a visible duplicate of the gate message — progress appears only where a real operation exists.
+- **Typography.** Loading copy uses `--text-tertiary`/`--text-secondary` at the existing small sizes (0.7–0.78rem for chips and inline loaders); skeleton labels are visually hidden, so the layer adds no new visible type scale.
+- **States.** Loading, loaded-with-data, loaded-empty, failed (with keyboard-accessible retry) and offline each have a defined surface treatment built from `--surface-section`, `--border-subtle` and the semantic status tokens, so the five states read as one family across every widget.
+
+Full behaviour, integration list, timings and verification live in [`docs/LOADING-SYSTEM-2026-11-07.md`](LOADING-SYSTEM-2026-11-07.md).
